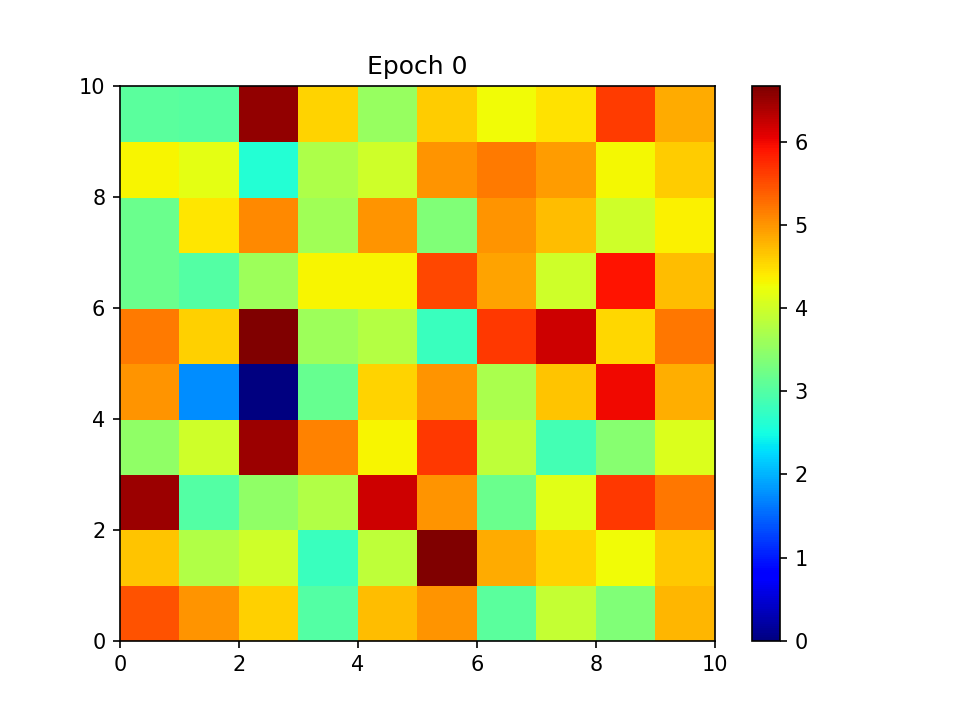
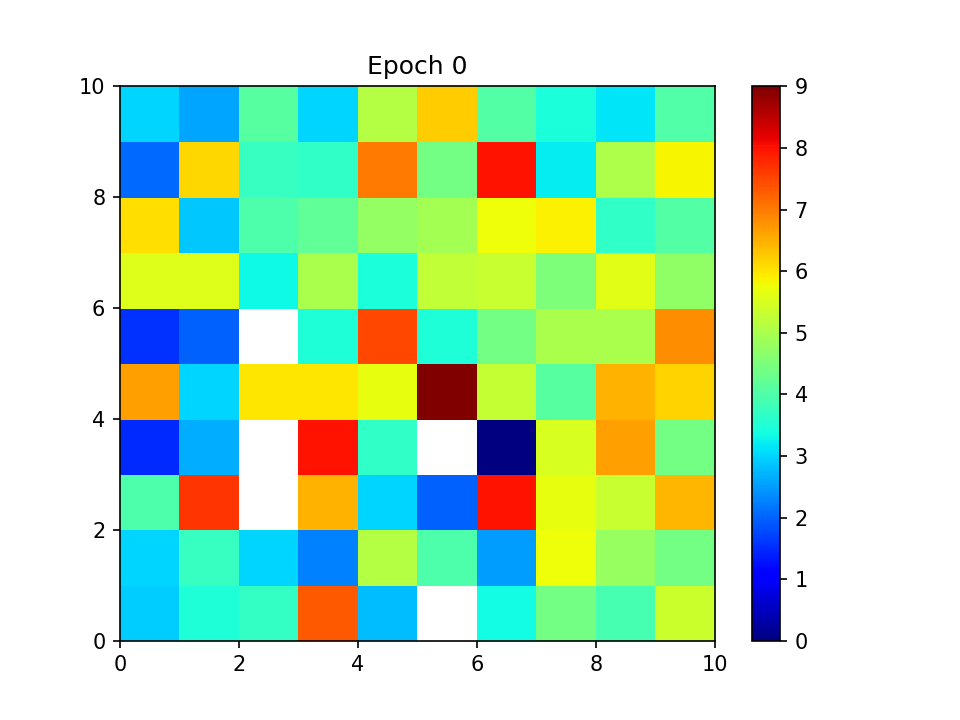
Refactor into class in progress

diff --git a/ImageClassification.py b/ImageClassification.py
@@ -7,6 +7,7 @@ from typing import Tuple, List, Union
 from Utilities import Utilities
 from Visualization import plot_mnist_color
 import math
+from termcolor import colored
 from functools import partial
 from Decay import Decay
 import os
@@ -14,9 +15,11 @@ np.random.seed(123)
 from pprint import pprint
 
 tensor = np.array
+NoOp = None
 
 
-def load_mnist(self, train_limit: int = 50000, test_limit: int = 10000) -> Tuple[tensor, tensor, tensor, tensor]:
+
+def load_mnist(train_limit: int = 50000, test_limit: int = 10000) -> Tuple[tensor, tensor, tensor, tensor]:
     cases = mnist_basics.load_all_flat_cases()
     features = tensor(cases[0]) / 255
     labels = tensor(cases[1])
@@ -24,11 +27,20 @@ def load_mnist(self, train_limit: int = 50000, test_limit: int = 10000) -> Tuple
            features[train_limit:train_limit + test_limit], labels[train_limit:train_limit + test_limit]
 
 
+
+
 class SOM:
 
     def __init__(self,
                  features: tensor,
-                 labels: Union[tensor, None],
+                 n_epochs: int,
+                 n_output_rows: int,
+                 n_output_cols: int,
+                 initial_radius: int,
+                 initial_l_rate: float,
+                 radius_decay_func: str,
+                 l_rate_decay_func: str,
+                 labels: Union[tensor, None]=None,
                  test_features: Union[tensor, None]=None,
                  test_labels: Union[tensor, None]=None,
                  display_interval: int=10):
@@ -36,14 +48,38 @@ class SOM:
         self.labels = labels
         self.test_features = test_features
         self.test_labels = test_labels
+        self.n_epochs = n_epochs
+        self.n_output_rows = n_output_rows
+        self.n_output_cols = n_output_cols
         self.display_interval = display_interval
+        self.initial_radius = initial_radius
+        self.initial_l_rate = initial_l_rate
+        self.feature_len = max(map(len, self.features))
+
+        time_const = self.n_epochs / np.log(self.initial_radius)
+        if radius_decay_func == "linear":
+            self.radius_decay_func = Decay.linear_decay
+        elif radius_decay_func == "exp":
+            self.radius_decay_func = partial(Decay.exp_decay, time_const=time_const)
+        elif radius_decay_func == "power":
+            self.radius_decay_func = partial(Decay.power_series, epochs=self.n_epochs)
+        else:
+            assert False, "Invalid radius decay function"
+
+        time_const = n_epochs
+        if l_rate_decay_func == "linear":
+            self.l_rate_decay_func = Decay.linear_decay
+        elif l_rate_decay_func == "exp":
+            self.l_rate_decay_func = partial(Decay.exp_decay, time_const=time_const)
+        elif l_rate_decay_func == "power":
+            self.l_rate_decay_func = partial(Decay.power_series, epochs=self.n_epochs)
+        else:
+            assert False, "Invalid learning rate decay function"
 
 
     def generate_neighbour_coordinates(self,
                                        row: int,
                                        col: int,
-                                       n_rows: int,
-                                       n_cols: int,
                                        radius: float,
                                        wrap: bool = False) -> List[Tuple]:
         def _in_range(r: int, c: int, n_rows: int, n_cols: int) -> bool:
@@ -60,9 +96,11 @@ class SOM:
                 neighbours.append((row - dr, col))
                 neighbours.append((row + dr, col))
         if wrap:
-            return list(set(map(lambda t: (t[0] % n_rows, t[1] % n_cols), neighbours)))
+            return list(set(map(lambda t: (t[0] % self.n_output_rows, t[1] % self.n_output_cols),
+                                neighbours)))
         else:
-            return list(set(filter(lambda t: _in_range(t[0], t[1], n_rows, n_cols), neighbours)))
+            return list(set(filter(lambda t: _in_range(t[0], t[1], self.n_output_rows, self.n_output_cols),
+                                   neighbours)))
 
 
     def average_memory(self, memory: List):
@@ -72,73 +110,93 @@ class SOM:
                 memory[r][c] = sum(memory[r][c]) / n if n else -1
 
 
-    def test(self, features: tensor, labels: tensor, memory: List, weights: tensor):
-        print("\nStarting Testing\n")
+    def test(self, memory: List, weights: tensor):
+        print("\n\nStarting Testing\n")
         predictions = []
-        for i, case in enumerate(features):
+        for i, case in enumerate(self.test_features):
             row, col = Utilities.get_winning_neuron_2d(case, weights)
             prediction = memory[row][col]
-            correct = labels[i] == int(prediction)
+            correct = self.test_labels[i] == int(round(prediction))
             predictions.append(correct)
             if not correct:
-                print("%d ------> %f" % (labels[i], prediction))
+                print("%d ------> %f" % (self.test_labels[i], prediction))
         accuracy = sum(predictions) / len(predictions)
         print("Accuracy: %f%%" % (accuracy * 100))
 
 
-    def run(self, features: tensor, labels: tensor, test_features: tensor, test_labels: tensor,  k: int=10):
-        feature_len = max(map(len, features))       # 784 for mnist
-        output_size = 10
-        init_radius = 5
-        init_l_rate = 0.7
-        decay = "power"
-        epochs = 20
-        time_const = epochs / np.log(init_radius)
+    def print_progress(self, total: int, i: int, epoch: int, radius: int, l_rate: float):
+        percentage = int((i / total) * 100)
+        if percentage < 25:
+            color = "red"
+        elif 25 <= percentage < 75:
+            color = "yellow"
+        else:
+            color = "green"
+        progress_bar = "[%s>%s]" % (("=" * percentage), (" " * (100 - percentage)))
+        progress_bar = colored(progress_bar, color)
+        print("\r%s %3d%% \t Epoch: %d \t L_Rate: %.3f \t Radius: %d" %
+              (progress_bar, percentage, epoch, l_rate, radius),
+              end="",
+              flush=True)
 
-        weights = np.random.uniform(size=(output_size, output_size, feature_len))
+    def run(self):
+        decay = "linear"
+
+        n_cases_to_run = self.n_epochs * len(self.features)
+        counter = 0
+
+        weights = np.random.uniform(size=(self.n_output_rows, self.n_output_cols, self.feature_len))
         memory = None
 
-        if decay == "linear":
-            decay_f = Decay.linear_decay
-        elif decay == "exp":
-            decay_f = partial(Decay.exp_decay, time_const=time_const)
-        elif decay == "power":
-            decay_f = partial(Decay.power_series, epochs=epochs)
-        else:
-            assert False, "Invalid decay function"
+        print("\nStarting Training Session\n")
 
-        for i in range(epochs + 1):
+        for i in range(self.n_epochs):
 
-            memory = [[[] for _ in range(output_size)] for _ in range(output_size)]
+            memory = [[[] for _ in range(self.n_output_cols)] for _ in range(self.n_output_rows)]
 
-            radius = int(init_radius * decay_f(i))
-            l_rate = init_l_rate * decay_f(i)
+            radius = int(self.initial_radius * self.radius_decay_func(i))
+            l_rate = self.initial_l_rate * self.l_rate_decay_func(i)
 
-            print("Epoch %d,\t radius: %d, l_rate: %f" % (i, radius, l_rate))
-
-            for j, case in enumerate(features):
+            for j, case in enumerate(self.features):
                 row, col = Utilities.get_winning_neuron_2d(case, weights)
                 Utilities.update_weight_matrix_2d(case, l_rate, row, col, weights)
-                for neighbour in generate_neighbour_coordinates(row, col, output_size, output_size, radius):
+                for neighbour in self.generate_neighbour_coordinates(row, col, radius):
                     influence = math.exp(
                         -(Utilities.euclidian_distance(tensor(neighbour), tensor((row, col)) ** 2) / (2 * radius ** 2))
                     )
                     Utilities.update_weight_matrix_2d(case, influence * l_rate, neighbour[0], neighbour[1], weights)
 
-                memory[row][col].append(labels[j])
-                print("Epoch %d,\t case %d" % (i, j)) if j % 100 == 0 else None
+                memory[row][col].append(self.labels[j])
 
-            average_memory(memory)
-            plot_mnist_color(memory, i) if i % k == 0 else None
+                counter += 1
+                self.print_progress(n_cases_to_run, counter, i, radius, l_rate) if j % 100 else NoOp
 
-        test(test_features, test_labels, memory, weights)
+            self.average_memory(memory)
+            plot_mnist_color(memory, i) if i % self.display_interval == 0 else NoOp
+
+        self.test(memory, weights)
 
 
 
 
-# Utilities.delete_previous_output("mnist_images")
-#
-# run(*load_mnist(train_limit=1000, test_limit=100), k=1)
-#
-# os.chdir("/home/espen/Documents/AI Prog/IT_3105_Module_4/mnist_images")
-# os.system("convert -loop 0 -delay 100 *.png out.gif")
+Utilities.delete_previous_output("mnist_images")
+
+
+mnist_features, mnist_labels, mnist_test_features, mnist_test_labels = load_mnist(train_limit=1000, test_limit=100)
+
+som = SOM(features=mnist_features,
+          labels=mnist_labels,
+          test_features=mnist_test_features,
+          test_labels=mnist_test_labels,
+          n_epochs=10,
+          initial_radius=5,
+          initial_l_rate=0.7,
+          radius_decay_func="linear",
+          l_rate_decay_func="linear",
+          n_output_cols=10,
+          n_output_rows=10,
+          display_interval=10)
+som.run()
+
+os.chdir("/home/espen/Documents/AI Prog/IT_3105_Module_4/mnist_images")
+os.system("convert -loop 0 -delay 100 *.png out.gif")
